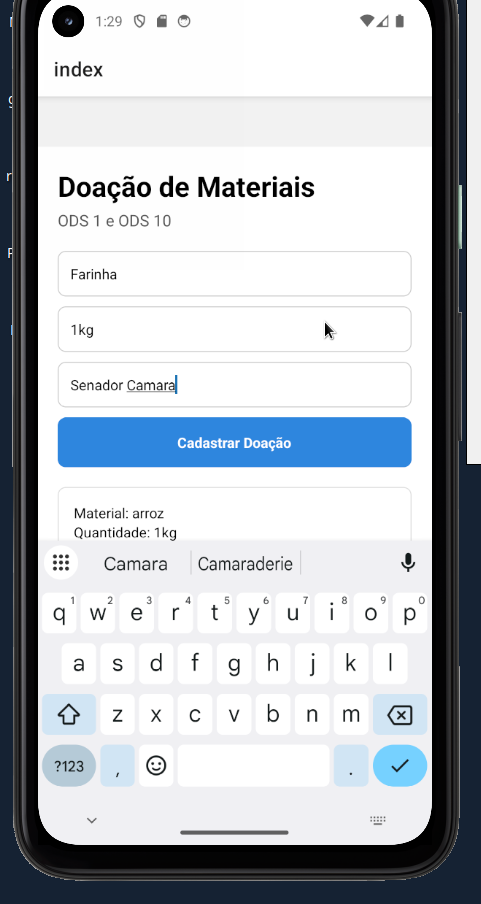
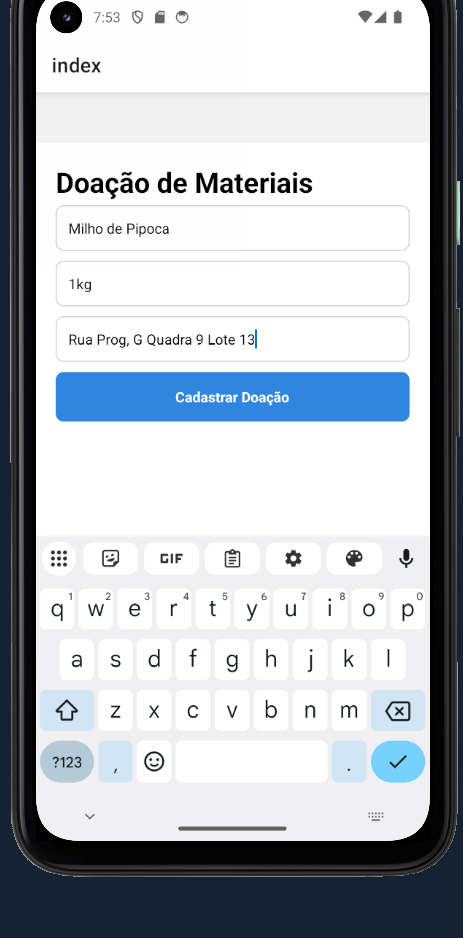
atualizacao do layout

diff --git a/Applicativo/doacao-materiais/app/index.tsx b/Applicativo/doacao-materiais/app/index.tsx
@@ -57,9 +57,6 @@ export default function HomeScreen() {
         Doação de Materiais
       </Text>
 
-      <Text style={styles.subtitulo}>
-        ODS 1 e ODS 10
-      </Text>
 
       <TextInput
         style={styles.input}
